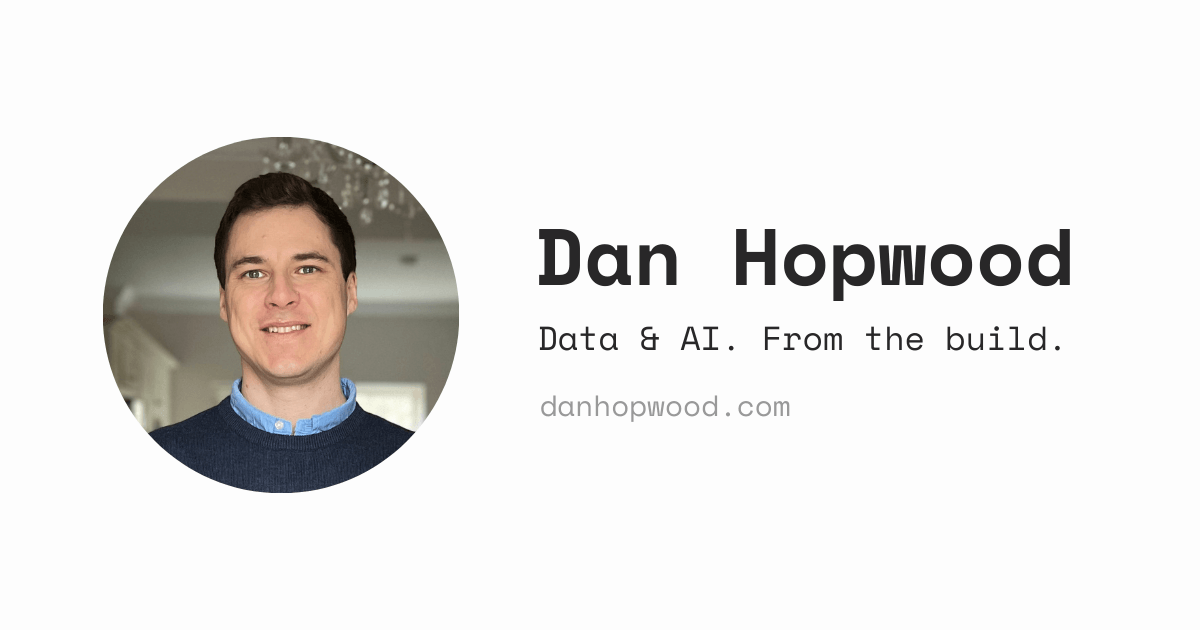
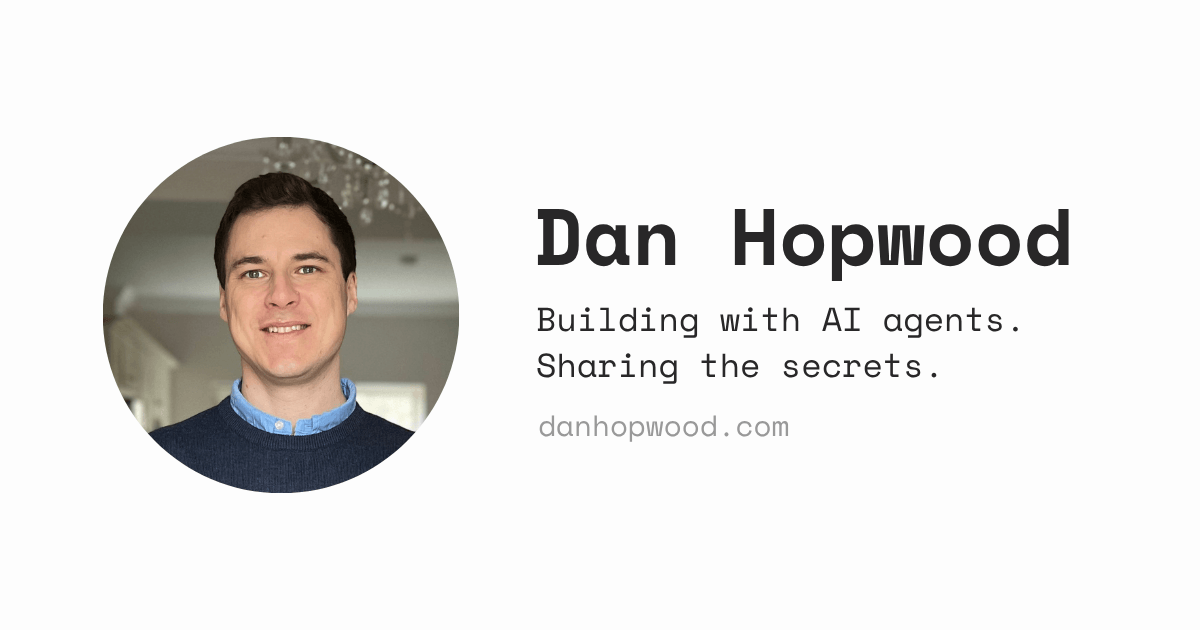
Align site copy with KPOI micro-niche positioning
Homepage bio, about page, site description and OG image updated
to reflect "building with AI agents" micro-niche. Replaces broad
"data & AI" category language with specific positioning. About page
restructured: leads with what agents do (scope), not how they work
(implementation detail).

Changed region(s): [[0.4317, 0.3317, 0.8942, 0.6032], [0.4317, 0.6333, 0.6783, 0.6937]]

diff --git a/src/config.ts b/src/config.ts
@@ -2,7 +2,7 @@ export const SITE = {
   website: "https://danhopwood.com/",
   author: "Dan Hopwood",
   profile: "https://danhopwood.com/",
-  desc: "Notes from building data infrastructure and AI agents.",
+  desc: "Notes from building a company entirely with AI agents.",
   title: "Dan Hopwood",
   ogImage: "og-image.png",
   lightAndDarkMode: true,

diff --git a/src/pages/about.md b/src/pages/about.md
@@ -3,14 +3,14 @@ layout: ../layouts/AboutLayout.astro
 title: "About"
 ---
 
-I'm Dan Hopwood. Building Fidero, a data platform for subscription businesses – entirely on agentic workflows. AI agents working in parallel, remembering context across sessions, verifying their own work.
+I'm Dan Hopwood. Building Fidero, a data platform for subscription businesses – entirely with AI agents. They do everything: code, audits, strategy, sales.
 
-I write about what works in data infrastructure and AI.
+I write about what actually works, sharing the secrets publicly.
 
-Outside Fidero, I work as a fractional CDO and AI advisor.
+I also work as a fractional CDO and AI advisor. Practitioner first, advisor second.
 
 Background: 12+ years in data and analytics. Seedcamp mentor. Built data infrastructure for B2C subscription companies from seed to scale-up.
 
 ## Get in touch
 
-[Twitter](https://x.com/dhpwd) · [LinkedIn](https://linkedin.com/in/dhpwd) · [GitHub](https://github.com/dhpwd) · [Book a call](https://cal.com/dhpwd/30min)
+[Book a call](https://cal.com/dhpwd/30min) · [Twitter](https://x.com/dhpwd) · [LinkedIn](https://linkedin.com/in/dhpwd) · [GitHub](https://github.com/dhpwd)
